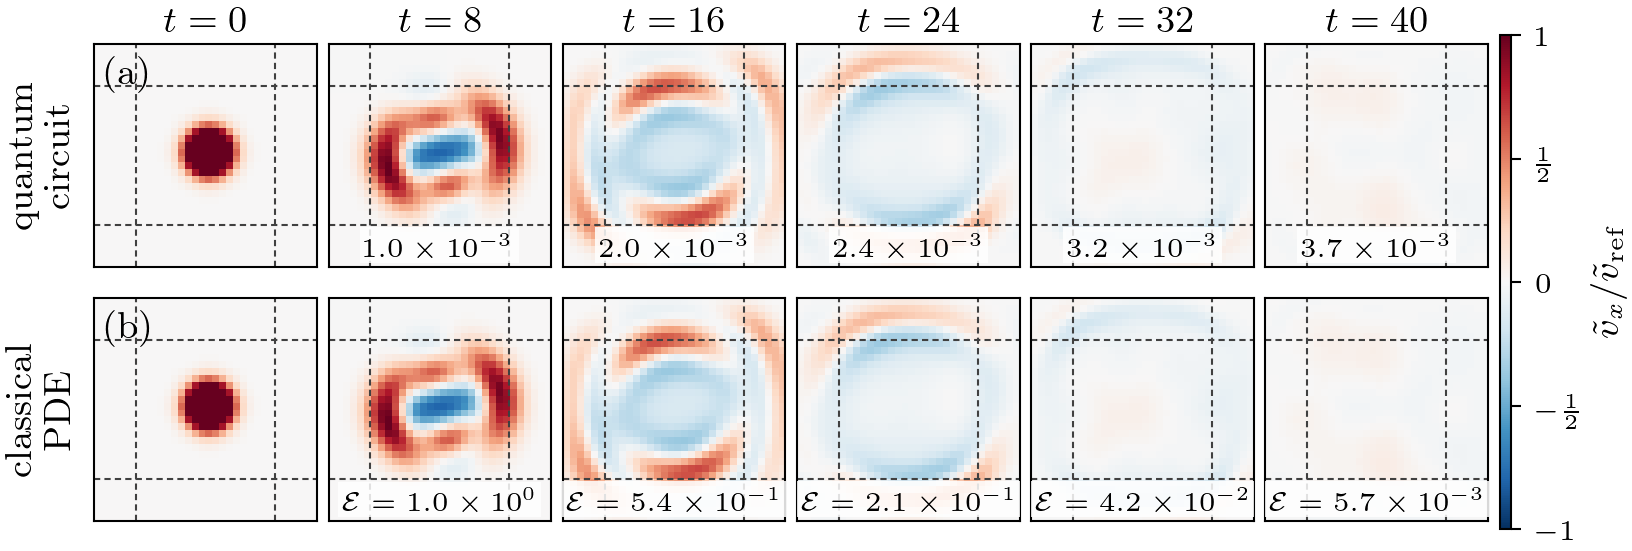
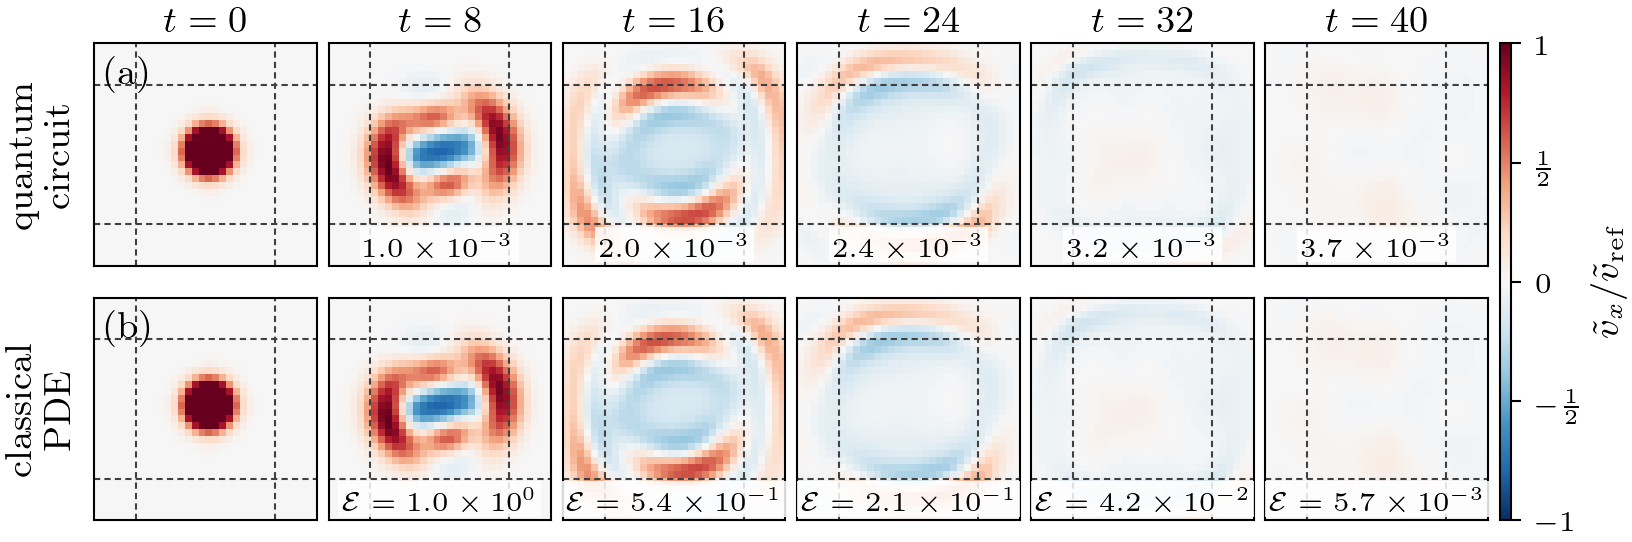
sponge: align colour bar with the panels in the gate-level figures

diff --git a/sponge/paper/experiments/figstyle.py b/sponge/paper/experiments/figstyle.py
@@ -119,6 +119,11 @@ def wavefield_grid(rows, row_labels, col_titles, vmax, edges, notes=None,
             rax.append(ax)
         axs.append(rax)
     cax = fig.add_subplot(gs[:, nc])
+    fig.canvas.draw()                         # apply the equal aspect, then match the bar to the panels
+    top = axs[0][-1].get_position()
+    bot = axs[-1][-1].get_position()
+    cpos = cax.get_position()
+    cax.set_position([cpos.x0, bot.y0, cpos.width, top.y1 - bot.y0])
     cb = fig.colorbar(im, cax=cax)
     cb.set_label(cbar_label, labelpad=2)
     cb.outline.set_linewidth(0.5)
